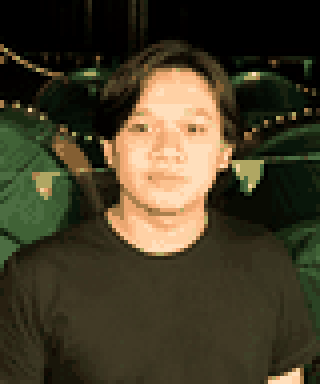
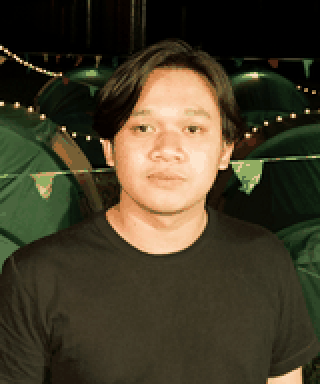
Increase pixel portrait clarity to 160x192 bitmap

diff --git a/js/apps/welcome.js b/js/apps/welcome.js
@@ -34,10 +34,10 @@ export const welcomeApp = {
                     </div>
                     <figure class="hero-portrait" id="hero-portrait">
                         <div class="pixel-screen">
-                            <img src="assets/images/portrait-pixel.png" width="320" height="384" alt="Retro pixel art portrait of Brian Wibowo" class="pixel-photo">
+                            <img src="assets/images/portrait-pixel.png?v=2" width="320" height="384" alt="Retro pixel art portrait of Brian Wibowo" class="pixel-photo">
                         </div>
                         <figcaption class="pixel-caption">
-                            <span>brian.bmp · 80x96</span>
+                            <span>brian.bmp · 160x192</span>
                             <button type="button" class="pixel-mode-btn" id="portrait-mode-btn" aria-pressed="false" title="Toggle retro LCD tint">LCD</button>
                         </figcaption>
                     </figure>
